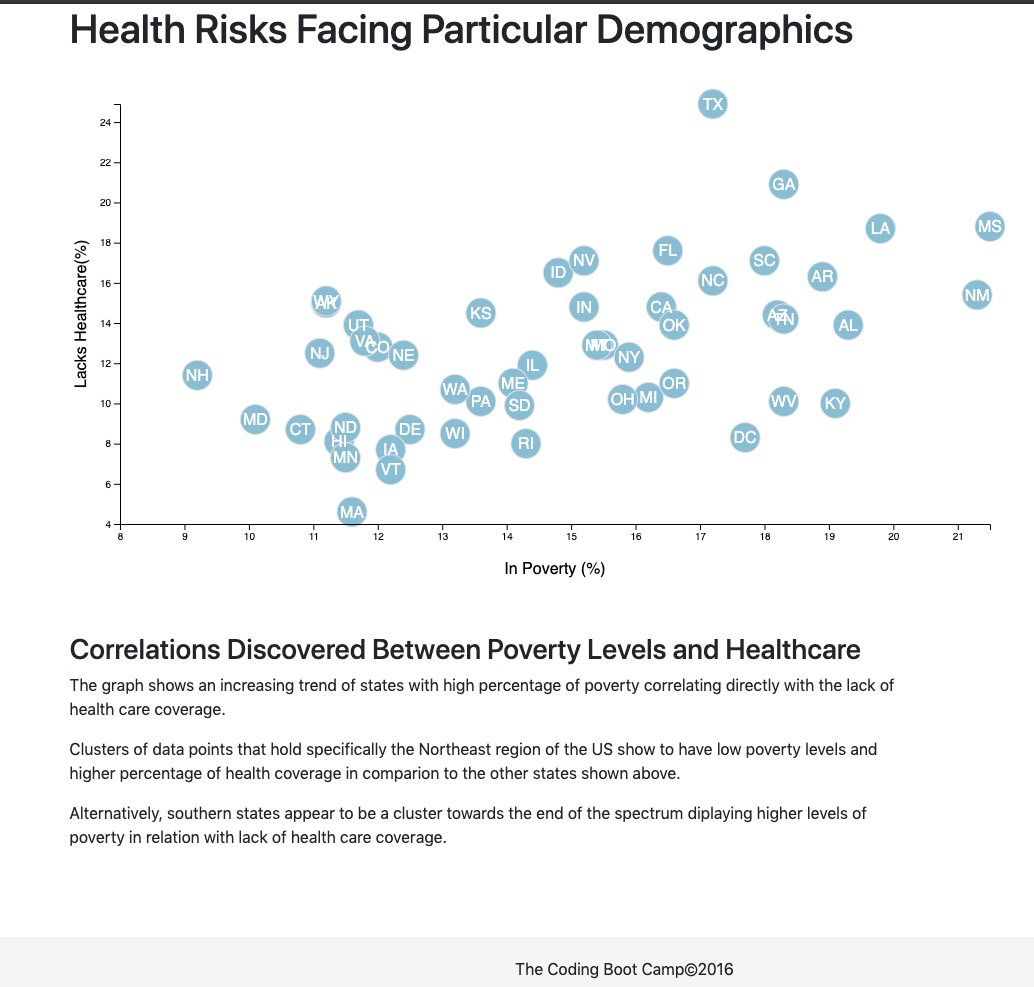
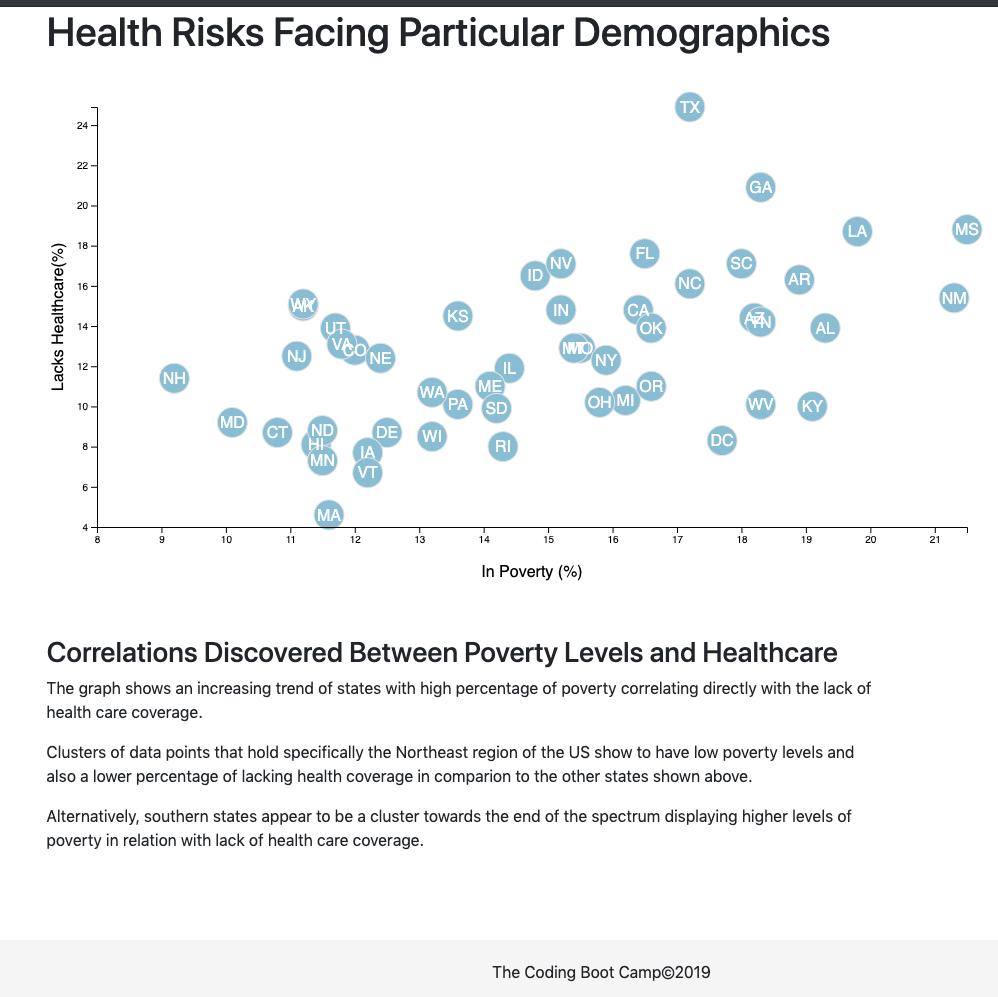
updated html and readme files

diff --git a/Instructions/StarterCode/index.html b/Instructions/StarterCode/index.html
@@ -40,14 +40,14 @@
 
           <p>Clusters of data points that hold specifically the Northeast region of the US show to have low poverty levels and also a lower percentage of lacking health coverage in comparion to the other states shown above. </p>
 
-          <p>Alternatively, southern states appear to be a cluster towards the end of the spectrum diplaying higher levels of poverty in relation with lack of health care coverage. </p>
+          <p>Alternatively, southern states appear to be a cluster towards the end of the spectrum displaying higher levels of poverty in relation with lack of health care coverage. </p>
         </div>
       </div>
     </div>
   </div>
 
   <div id="footer">
-    <p>The Coding Boot Camp&copy;2016</p>
+    <p>The Coding Boot Camp&copy;2019</p>
   </div>
   <script src="https://cdnjs.cloudflare.com/ajax/libs/d3/4.13.0/d3.min.js"></script>
   <script src="https://cdnjs.cloudflare.com/ajax/libs/d3-tip/0.9.1/d3-tip.js"></script>
